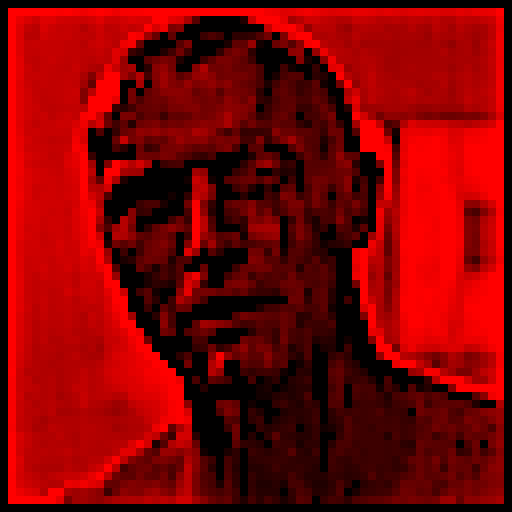
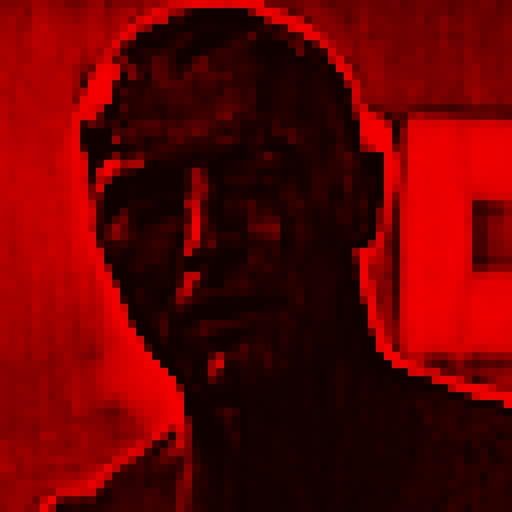
Use soft red tone curve

diff --git a/devil_matrix.py b/devil_matrix.py
@@ -5,6 +5,7 @@ from __future__ import annotations
 
 import argparse
 import hashlib
+import math
 import signal
 import sys
 import time
@@ -109,6 +110,7 @@ def red_depth_image(
     max_red: int,
     black_point: float,
     white_point: float,
+    tone_slope: float,
     detail: float,
     detail_radius: float,
     sharpen: int,
@@ -158,9 +160,9 @@ def red_depth_image(
             continue
 
         luminance = (value - low) / spread
-        luminance = max(0.0, min(1.0, luminance))
+        level = 1 / (1 + math.exp(-tone_slope * (luminance - 0.5)))
         alpha_ratio = alpha / 255
-        level = (luminance ** gamma) * alpha_ratio
+        level = (level ** gamma) * alpha_ratio
         output_red = min_red + level * (max_red - min_red)
         pixels.append((clamp(output_red), 0, 0))
 
@@ -180,6 +182,7 @@ def save_processed(args: argparse.Namespace) -> Image.Image:
         max_red=args.max_red,
         black_point=args.black_point,
         white_point=args.white_point,
+        tone_slope=args.tone_slope,
         detail=args.detail,
         detail_radius=args.detail_radius,
         sharpen=args.sharpen,
@@ -267,16 +270,17 @@ def build_parser() -> argparse.ArgumentParser:
     parser.add_argument("--preview", type=Path)
     parser.add_argument("--preview-scale", type=int, default=8)
     parser.add_argument("--size", type=int, default=64)
-    parser.add_argument("--padding", type=int, default=1)
-    parser.add_argument("--gamma", type=float, default=0.5)
-    parser.add_argument("--contrast", type=float, default=1.15)
+    parser.add_argument("--padding", type=int, default=0)
+    parser.add_argument("--gamma", type=float, default=0.9)
+    parser.add_argument("--contrast", type=float, default=1.08)
     parser.add_argument("--min-red", type=int, default=1)
-    parser.add_argument("--max-red", type=int, default=255)
-    parser.add_argument("--black-point", type=float, default=1.0)
-    parser.add_argument("--white-point", type=float, default=92.0)
-    parser.add_argument("--detail", type=float, default=1.3)
+    parser.add_argument("--max-red", type=int, default=245)
+    parser.add_argument("--black-point", type=float, default=2.0)
+    parser.add_argument("--white-point", type=float, default=94.0)
+    parser.add_argument("--tone-slope", type=float, default=6.0)
+    parser.add_argument("--detail", type=float, default=1.1)
     parser.add_argument("--detail-radius", type=float, default=2.0)
-    parser.add_argument("--sharpen", type=int, default=130)
+    parser.add_argument("--sharpen", type=int, default=90)
     parser.add_argument("--crop", default="70,30,1120,1080")
     parser.add_argument("--background-red", type=int, default=0)
     parser.add_argument("--alpha-threshold", type=int, default=10)

diff --git a/README.md b/README.md
@@ -27,13 +27,17 @@ sudo ./.venv/bin/python3 devil_matrix.py \
   --gpio-slowdown 5 \
   --brightness 85 \
   --pwm-bits 8 \
-  --contrast 1.15 \
-  --gamma 0.5 \
-  --black-point 1 \
-  --white-point 92 \
-  --detail 1.3 \
-  --sharpen 130 \
-  --crop 70,30,1120,1080
+  --padding 0 \
+  --contrast 1.08 \
+  --gamma 0.9 \
+  --black-point 2 \
+  --white-point 94 \
+  --tone-slope 6 \
+  --detail 1.1 \
+  --sharpen 90 \
+  --crop 70,30,1120,1080 \
+  --min-red 1 \
+  --max-red 245
 ```
 
 ## Preview
@@ -47,13 +51,13 @@ python3 devil_matrix.py --preview assets/processed/devil-red-preview.png
 Show more face detail:
 
 ```bash
-sudo ./scripts/run_waveshare.sh --gamma 0.45 --detail 1.6 --contrast 1.0
+sudo ./scripts/run_waveshare.sh --tone-slope 4 --gamma 0.75 --detail 1.3
 ```
 
 Push the contrast harder:
 
 ```bash
-sudo ./scripts/run_waveshare.sh --gamma 0.9 --black-point 4 --white-point 88
+sudo ./scripts/run_waveshare.sh --tone-slope 8 --gamma 1.0 --max-red 255
 ```
 
 Make it dimmer: